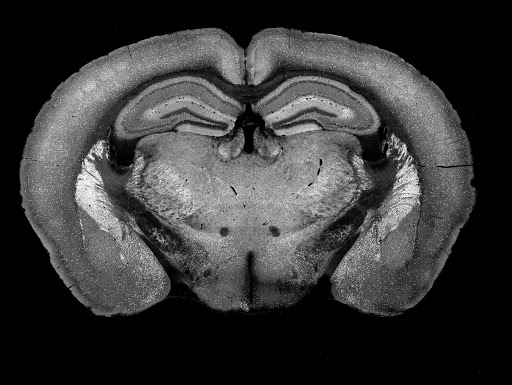
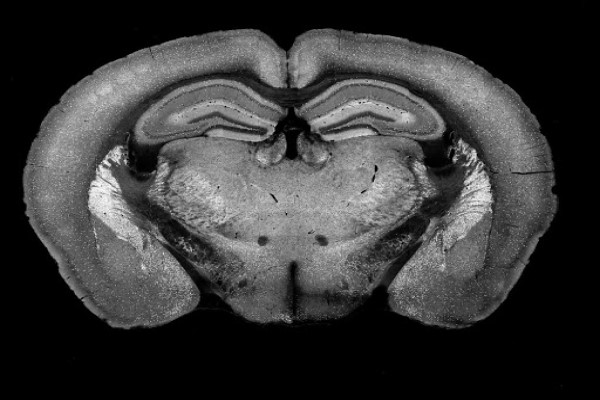
Image Resizing

diff --git a/index.html b/index.html
@@ -78,22 +78,22 @@ p {
       </div>
     </div>
 	<div class="carousel-item">
-     <img src="assets/brain1.jpg" alt="Image5" width="60%" height="60%" class="mx-auto d-block">
+     <img src="assets/brain1.jpg" alt="Image5" width="600" height="400" class="mx-auto d-block">
      <div class="carousel-caption"> </div>
 		<p>Connectivity, Anterograde tracing, Triple Injection</p>
     </div>
 	<div class="carousel-item">
-     <img src="assets/brain2.jpg" alt="Image6" width="60%" height="60%" class="mx-auto d-block">
+     <img src="assets/brain2.jpg" alt="Image6" width="600" height="400" class="mx-auto d-block">
      <div class="carousel-caption"> </div>
 		<p>Cell counting, Imaging, STPT</p>
     </div>
 	<div class="carousel-item">
-     <img src="assets/brain3.jpg" alt="Image7" width="60%" height="60%" class="mx-auto d-block">
+     <img src="assets/brain3.jpg" alt="Image7" width="600" height="400" class="mx-auto d-block">
      <div class="carousel-caption"> </div>
 		<p>Cell counting, Imaging, STPT</p>
     </div>
 	<div class="carousel-item">
-     <img src="assets/brain4.jpg" alt="Image8" width="60%" height="60%" class="mx-auto d-block">
+     <img src="assets/brain4.jpg" alt="Image8" width="600" height="400" class="mx-auto d-block">
      <div class="carousel-caption"> </div>
 		<p>Connectivity, TRIO, Triple Injection, Monosynaptic-Transsynaptic</p>
     </div>
